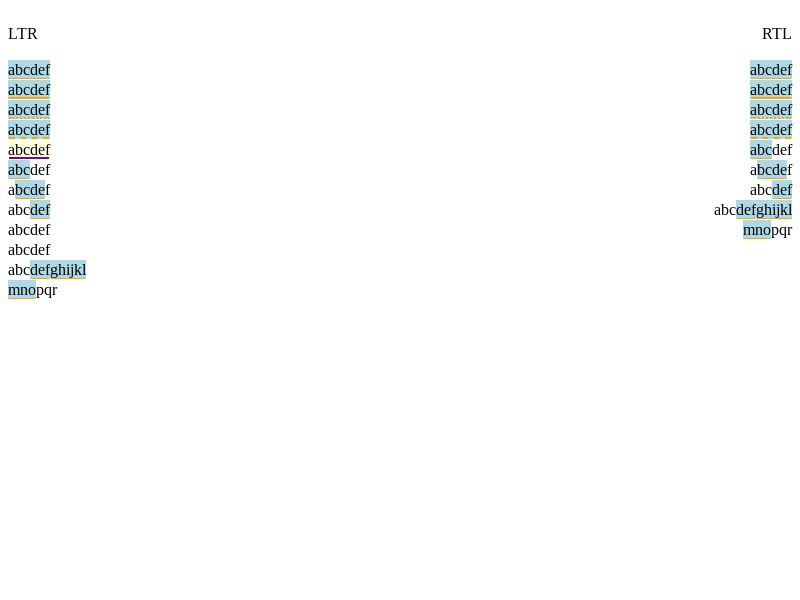
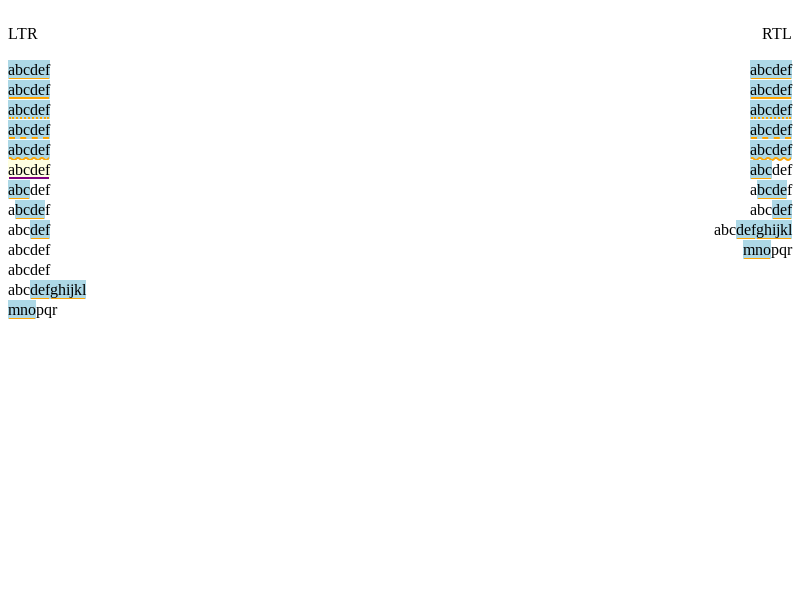
Added squiggle underline formatting style in styleable marker.
Added squiggle underline style in IMETextSpan for IMEs that apply those
formats during an active composition such as MS Japanese IME. Currently,
the squiggle format is only applicable for composition markers.

Bug: 1033764

Commit-Queue: Anupam Snigdha <snianu@microsoft.com>
Cr-Commit-Position: refs/heads/master@{#751040}

Changed region(s): [[0.0, 0.21, 0.125, 0.54], [0.875, 0.21, 1.0, 0.45]]

diff --git a/web_tests/paint/markers/composition-marker-basic.html b/web_tests/paint/markers/composition-marker-basic.html
@@ -8,6 +8,7 @@
     <div id="markRtlAllThick">abcdef</div>
     <div id="markRtlAllDotted">abcdef</div>
     <div id="markRtlAllDashed">abcdef</div>
+    <div id="markRtlAllSquiggled">abcdef</div>
     <div id="markRtlBeginning">abcdef</div>
     <div id="markRtlAllExceptFirstAndLast">abcdef</div>
     <div id="markRtlEnd">abcdef</div>
@@ -20,6 +21,7 @@
     <div id="markAllThick">abcdef</div>
     <div id="markAllDotted">abcdef</div>
     <div id="markAllDashed">abcdef</div>
+    <div id="markAllSquiggled">abcdef</div>
     <div id="markAllDifferentColors">abcdef</div>
     <div id="markBeginning">abcdef</div>
     <div id="markAllExceptFirstAndLast">abcdef</div>
@@ -56,6 +58,7 @@ onload = runAfterLayoutAndPaint(function() {
     highlightRange(markAllThick, 0, 6, 'orange', 'thick', 'solid', 'lightBlue');
     highlightRange(markAllDotted, 0, 6, 'orange', 'thick', 'dot', 'lightBlue');
     highlightRange(markAllDashed, 0, 6, 'orange', 'thick', 'dash', 'lightBlue');
+    highlightRange(markAllSquiggled, 0, 6, 'orange', 'thick', 'squiggle', 'lightBlue');
     highlightRange(markAllDifferentColors, 0, 6, 'purple', 'thick', 'solid', 'lightYellow');
     highlightRangeSimple(markBeginning, 0, 3);
     highlightRangeSimple(markAllExceptFirstAndLast, 1, 5);
@@ -67,6 +70,7 @@ onload = runAfterLayoutAndPaint(function() {
     highlightRange(markRtlAllThick, 0, 6, 'orange', 'thick', 'solid', 'lightBlue');
     highlightRange(markRtlAllDotted, 0, 6, 'orange', 'thick', 'dot', 'lightBlue');
     highlightRange(markRtlAllDashed, 0, 6, 'orange', 'thick', 'dash', 'lightBlue');
+    highlightRange(markRtlAllSquiggled, 0, 6, 'orange', 'thick', 'squiggle', 'lightBlue');
     highlightRangeSimple(markRtlBeginning, 0, 3);
     highlightRangeSimple(markRtlAllExceptFirstAndLast, 1, 5);
     highlightRangeSimple(markRtlEnd, 3, 6);

diff --git a/renderer/core/paint/document_marker_painter.cc b/renderer/core/paint/document_marker_painter.cc
@@ -95,25 +95,8 @@ sk_sp<PaintRecord> RecordMarker(Color blink_color) {
 void DrawDocumentMarker(GraphicsContext& context,
                         const FloatPoint& pt,
                         float width,
-                        DocumentMarker::MarkerType marker_type,
-                        float zoom) {
-  DCHECK(marker_type == DocumentMarker::kSpelling ||
-         marker_type == DocumentMarker::kGrammar);
-
-  DEFINE_STATIC_LOCAL(
-      PaintRecord*, spelling_marker,
-      (RecordMarker(
-           LayoutTheme::GetTheme().PlatformSpellingMarkerUnderlineColor())
-           .release()));
-  DEFINE_STATIC_LOCAL(
-      PaintRecord*, grammar_marker,
-      (RecordMarker(
-           LayoutTheme::GetTheme().PlatformGrammarMarkerUnderlineColor())
-           .release()));
-  auto* const marker = marker_type == DocumentMarker::kSpelling
-                           ? spelling_marker
-                           : grammar_marker;
-
+                        float zoom,
+                        PaintRecord* const marker) {
   // Position already includes zoom and device scale factor.
   SkScalar origin_x = WebCoreFloatToSkScalar(pt.X());
   SkScalar origin_y = WebCoreFloatToSkScalar(pt.Y());
@@ -185,28 +168,49 @@ void DocumentMarkerPainter::PaintStyleableMarkerUnderline(
       marker.UseTextColor()
           ? style.VisitedDependentColor(GetCSSPropertyWebkitTextFillColor())
           : marker.UnderlineColor();
-  context.SetStrokeColor(marker_color);
-  // Set the style of the underline if there is any.
-  switch (marker.UnderlineStyle()) {
-    case ui::mojom::ImeTextSpanUnderlineStyle::kDash:
-      context.SetStrokeStyle(StrokeStyle::kDashedStroke);
-      break;
-    case ui::mojom::ImeTextSpanUnderlineStyle::kDot:
-      context.SetStrokeStyle(StrokeStyle::kDottedStroke);
-      break;
-    case ui::mojom::ImeTextSpanUnderlineStyle::kSolid:
-      context.SetStrokeStyle(StrokeStyle::kSolidStroke);
-      break;
-    case ui::mojom::ImeTextSpanUnderlineStyle::kNone:
-      context.SetStrokeStyle(StrokeStyle::kNoStroke);
-      break;
+  if (marker.UnderlineStyle() !=
+      ui::mojom::ImeTextSpanUnderlineStyle::kSquiggle) {
+    context.SetStrokeColor(marker_color);
+    context.SetStrokeThickness(line_thickness);
+    // Set the style of the underline if there is any.
+    switch (marker.UnderlineStyle()) {
+      case ui::mojom::ImeTextSpanUnderlineStyle::kDash:
+        context.SetStrokeStyle(StrokeStyle::kDashedStroke);
+        break;
+      case ui::mojom::ImeTextSpanUnderlineStyle::kDot:
+        context.SetStrokeStyle(StrokeStyle::kDottedStroke);
+        break;
+      case ui::mojom::ImeTextSpanUnderlineStyle::kSolid:
+        context.SetStrokeStyle(StrokeStyle::kSolidStroke);
+        break;
+      case ui::mojom::ImeTextSpanUnderlineStyle::kNone:
+        context.SetStrokeStyle(StrokeStyle::kNoStroke);
+        break;
+      case ui::mojom::ImeTextSpanUnderlineStyle::kSquiggle:
+        // Wavy stroke style is not implemented in DrawLineForText so we handle
+        // it specially in the else condition below only for composition
+        // markers.
+        break;
+    }
+    context.DrawLineForText(
+        FloatPoint(box_origin.left + start,
+                   (box_origin.top + logical_height.ToInt() - line_thickness)
+                       .ToFloat()),
+        width);
+  } else {
+    // For wavy underline format we use this logic that is very similar to
+    // spelling/grammar squiggles format. Only applicable for composition
+    // markers for now.
+    if (marker.GetType() == DocumentMarker::kComposition) {
+      sk_sp<PaintRecord> composition_marker = (RecordMarker(marker_color));
+      DrawDocumentMarker(
+          context,
+          FloatPoint((box_origin.left + start).ToFloat(),
+                     (box_origin.top + logical_height.ToInt() - line_thickness)
+                         .ToFloat()),
+          width, line_thickness, composition_marker.get());
+    }
   }
-  context.SetStrokeThickness(line_thickness);
-  context.DrawLineForText(
-      FloatPoint(
-          box_origin.left + start,
-          (box_origin.top + logical_height.ToInt() - line_thickness).ToFloat()),
-      width);
 }
 
 void DocumentMarkerPainter::PaintDocumentMarker(
@@ -241,10 +245,24 @@ void DocumentMarkerPainter::PaintDocumentMarker(
     // prevent a big gap.
     underline_offset = baseline + 2 * zoom;
   }
+  DEFINE_STATIC_LOCAL(
+      PaintRecord*, spelling_marker,
+      (RecordMarker(
+           LayoutTheme::GetTheme().PlatformSpellingMarkerUnderlineColor())
+           .release()));
+  DEFINE_STATIC_LOCAL(
+      PaintRecord*, grammar_marker,
+      (RecordMarker(
+           LayoutTheme::GetTheme().PlatformGrammarMarkerUnderlineColor())
+           .release()));
+
+  auto* const marker = marker_type == DocumentMarker::kSpelling
+                           ? spelling_marker
+                           : grammar_marker;
   DrawDocumentMarker(context,
                      FloatPoint((box_origin.left + local_rect.X()).ToFloat(),
                                 (box_origin.top + underline_offset).ToFloat()),
-                     local_rect.Width().ToFloat(), marker_type, zoom);
+                     local_rect.Width().ToFloat(), zoom, marker);
 }
 
 TextPaintStyle DocumentMarkerPainter::ComputeTextPaintStyleFrom(

diff --git a/renderer/core/editing/ime/ime_text_span_test.cc b/renderer/core/editing/ime/ime_text_span_test.cc
@@ -18,6 +18,16 @@ ImeTextSpan CreateImeTextSpan(unsigned start_offset, unsigned end_offset) {
                      Color::kTransparent, Color::kTransparent);
 }
 
+ImeTextSpan CreateImeTextSpan(
+    unsigned start_offset,
+    unsigned end_offset,
+    ui::mojom::ImeTextSpanUnderlineStyle underline_style) {
+  return ImeTextSpan(ImeTextSpan::Type::kComposition, start_offset, end_offset,
+                     Color::kTransparent,
+                     ui::mojom::ImeTextSpanThickness::kNone, underline_style,
+                     Color::kTransparent, Color::kTransparent);
+}
+
 TEST(ImeTextSpanTest, OneChar) {
   ImeTextSpan ime_text_span = CreateImeTextSpan(0, 1);
   EXPECT_EQ(0u, ime_text_span.StartOffset());
@@ -72,6 +82,25 @@ TEST(ImeTextSpanTest, LastCharEndBeforeStartZeroEnd) {
   EXPECT_EQ(std::numeric_limits<unsigned>::max() - 1,
             ime_text_span.StartOffset());
   EXPECT_EQ(std::numeric_limits<unsigned>::max(), ime_text_span.EndOffset());
+}
+
+TEST(ImeTextSpanTest, UnderlineStyles) {
+  ImeTextSpan ime_text_span =
+      CreateImeTextSpan(0, 5, ui::mojom::ImeTextSpanUnderlineStyle::kSolid);
+  EXPECT_EQ(ui::mojom::ImeTextSpanUnderlineStyle::kSolid,
+            ime_text_span.UnderlineStyle());
+  ime_text_span =
+      CreateImeTextSpan(0, 5, ui::mojom::ImeTextSpanUnderlineStyle::kDot);
+  EXPECT_EQ(ui::mojom::ImeTextSpanUnderlineStyle::kDot,
+            ime_text_span.UnderlineStyle());
+  ime_text_span =
+      CreateImeTextSpan(0, 5, ui::mojom::ImeTextSpanUnderlineStyle::kDash);
+  EXPECT_EQ(ui::mojom::ImeTextSpanUnderlineStyle::kDash,
+            ime_text_span.UnderlineStyle());
+  ime_text_span =
+      CreateImeTextSpan(0, 5, ui::mojom::ImeTextSpanUnderlineStyle::kSquiggle);
+  EXPECT_EQ(ui::mojom::ImeTextSpanUnderlineStyle::kSquiggle,
+            ime_text_span.UnderlineStyle());
 }
 
 }  // namespace

diff --git a/renderer/core/editing/markers/composition_marker_test.cc b/renderer/core/editing/markers/composition_marker_test.cc
@@ -83,4 +83,22 @@ TEST_F(CompositionMarkerTest, UnderlineStyleDashed) {
   EXPECT_EQ(Color::kTransparent, marker->TextColor());
 }
 
+TEST_F(CompositionMarkerTest, UnderlineStyleSquiggled) {
+  CompositionMarker* marker = MakeGarbageCollected<CompositionMarker>(
+      0, 1, Color::kDarkGray, ImeTextSpanThickness::kThin,
+      ImeTextSpanUnderlineStyle::kSquiggle, Color::kTransparent, Color::kGray);
+  EXPECT_EQ(Color::kDarkGray, marker->UnderlineColor());
+  EXPECT_TRUE(marker->HasThicknessThin());
+  EXPECT_EQ(ImeTextSpanUnderlineStyle::kSquiggle, marker->UnderlineStyle());
+  EXPECT_EQ(Color::kTransparent, marker->TextColor());
+  EXPECT_EQ(Color::kGray, marker->BackgroundColor());
+
+  CompositionMarker* thick_marker = MakeGarbageCollected<CompositionMarker>(
+      0, 1, Color::kDarkGray, ImeTextSpanThickness::kThick,
+      ImeTextSpanUnderlineStyle::kSquiggle, Color::kTransparent, Color::kGray);
+  EXPECT_TRUE(thick_marker->HasThicknessThick());
+  EXPECT_EQ(ImeTextSpanUnderlineStyle::kSquiggle, marker->UnderlineStyle());
+  EXPECT_EQ(Color::kTransparent, marker->TextColor());
+}
+
 }  // namespace blink

diff --git a/renderer/core/testing/internals.cc b/renderer/core/testing/internals.cc
@@ -1144,6 +1144,8 @@ static base::Optional<ImeTextSpanUnderlineStyle> UnderlineStyleFrom(
     return ImeTextSpanUnderlineStyle::kDot;
   if (EqualIgnoringASCIICase(underline_style, "dash"))
     return ImeTextSpanUnderlineStyle::kDash;
+  if (EqualIgnoringASCIICase(underline_style, "squiggle"))
+    return ImeTextSpanUnderlineStyle::kSquiggle;
   return base::nullopt;
 }
 
